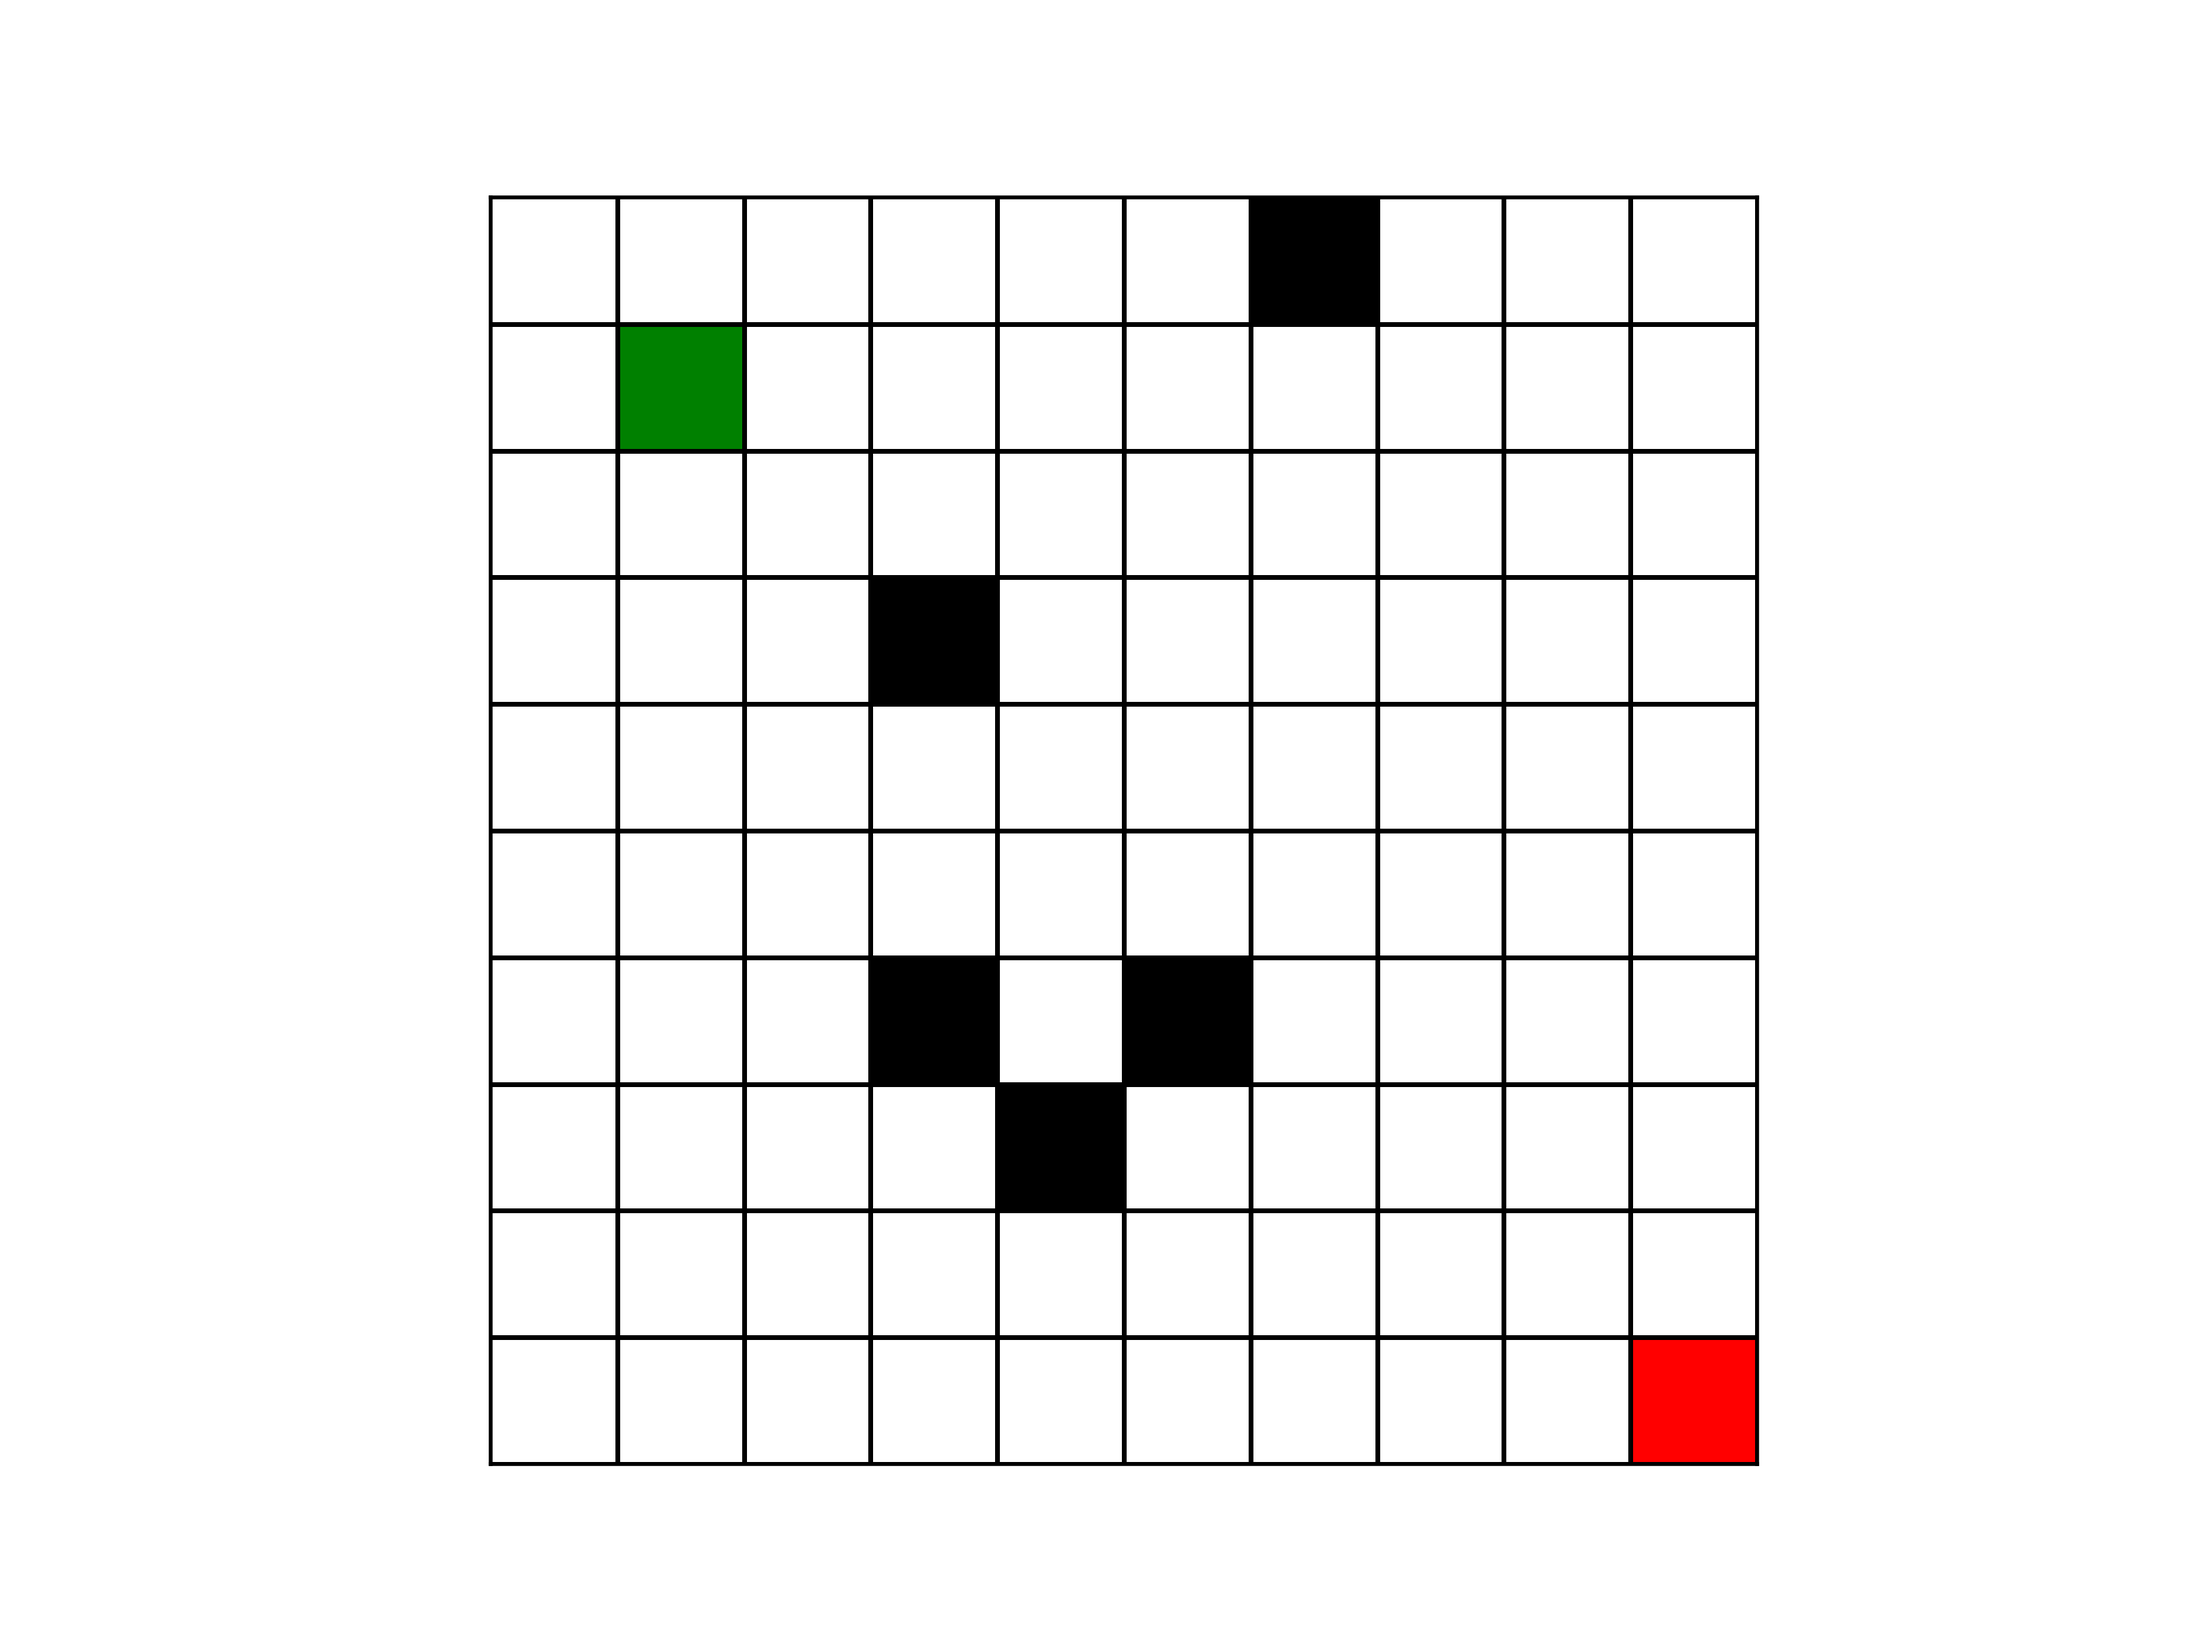
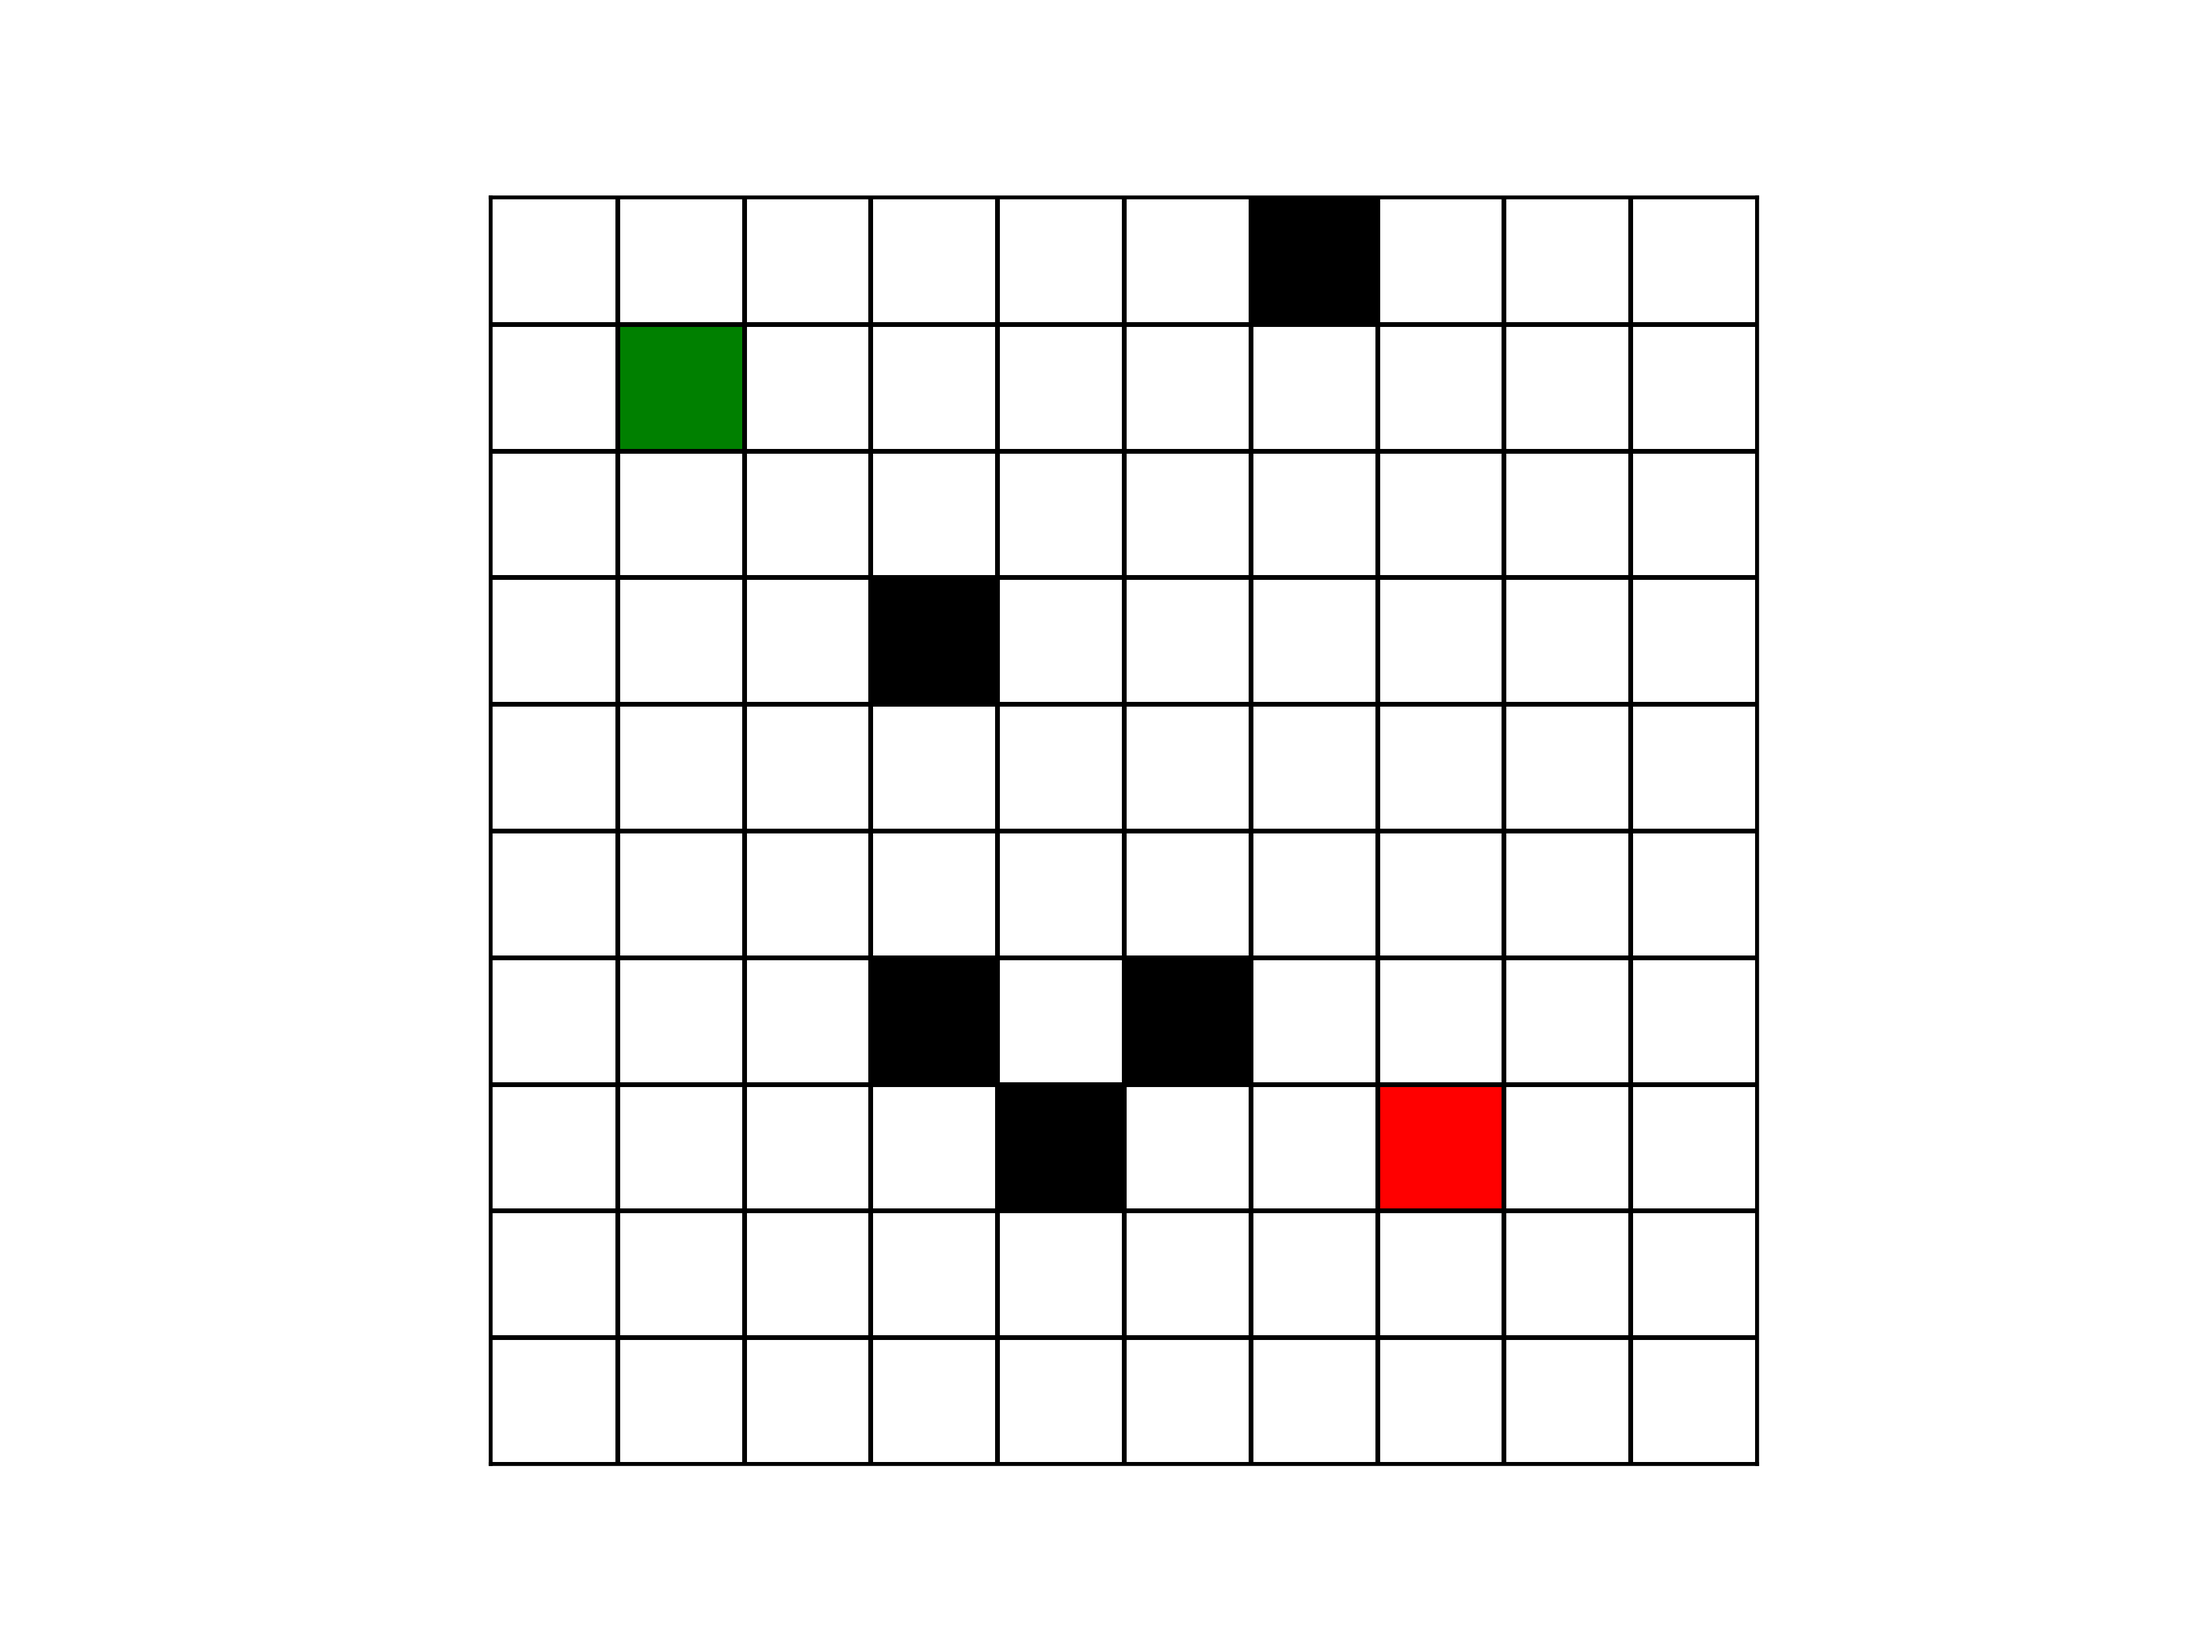
Move goal position to make sure search stops at correct time

Changed region(s): [[0.7188, 0.8125, 0.8125, 0.9062], [0.625, 0.6562, 0.6875, 0.75]]

diff --git a/week1/fixed_grid.py b/week1/fixed_grid.py
@@ -10,7 +10,9 @@ if __name__ == "__main__":
     data[1, 1] = grid_generator.START_CELL
     data[9, 9] = grid_generator.GOAL_CELL
     grid_generator.generate_obstacles(data, 5)
-    grid_generator.plot_grid(data, "fixed_grid/fixed_grid")
+    # grid_generator.plot_grid(data, "fixed_grid/fixed_grid")
+    grid = np.loadtxt('fixed_grid/fixed_grid.txt', dtype=int)
+    grid_generator.plot_grid(grid, 'fixed_grid/fixed_grid')
     # This line was puroposely commented out so I dont accidently 
     # overwrite my truth file. Uncomment if wanting to generate new
     # truth grid
